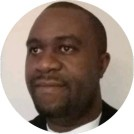
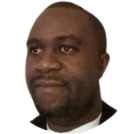
css styles change

Changed region(s): [[0.0, 0.0, 1.0, 0.9552], [0.6866, 0.8657, 0.8358, 0.9851], [0.2985, 0.9552, 0.4776, 1.0]]

diff --git a/index.html b/index.html
@@ -3,11 +3,12 @@
   <head>
     <meta charset="UTF-8" />
     <title>Essomba's Personal website</title>
+    <link rel="stylesheet" href="css/styles.css">
   </head>
   <body>
     <table cellspacing="20">
       <tr>
-        <td><img src="images/jessomba.png" alt="Essomba profile picture" /></td>
+        <td><img class = "circular" src="images/jessomba.png" alt="Essomba profile picture" /></td>
         <td>
           <h1>Essomba Bonaventure</h1>
           <p>
@@ -29,7 +30,7 @@
       <li>Spring boot</li>
       <li>Html</li>
     </ul>
-    <hr>
+    <hr />
     <h3>Work Experiance</h3>
     <table>
       <thead>
@@ -48,7 +49,7 @@
       </tbody>
       <tfoot></tfoot>
     </table>
-    <hr>
+    <hr />
     <h3>Skills</h3>
     <table cellspacing="10">
       <tr>

diff --git a/css/styles.css b/css/styles.css
@@ -1,0 +1,26 @@
+body {
+    background-color: #eaf6f6;
+  }
+  hr{
+    border-style: none;
+    border-top-style: dotted;
+    border-color: gray;
+    border-width: 5px;
+    width: 5%;
+  }
+
+  h1{
+    color:#66BFBF ;
+  }
+  h3{
+    color:#66BFBF ;
+  }
+/*
+  img:hover{
+    background-color: gold;
+  }
+*/
+  .circular{
+    border-radius: 50%;
+    border:1px solid #66BFBF;
+  }

diff --git a/contact.html b/contact.html
@@ -3,6 +3,7 @@
   <head>
     <meta charset="UTF-8" />
     <title>My contact</title>
+    <link rel="stylesheet" href="css/styles.css">
   </head>
   <body>
     <h3>My contact</h3>

diff --git a/hobbies.html b/hobbies.html
@@ -3,6 +3,7 @@
   <head>
     <meta charset="UTF-8" />
     <title>My hobbies</title>
+    <link rel="stylesheet" href="css/styles.css">
   </head>
   <body>
     <h3>My hobbies</h3>
